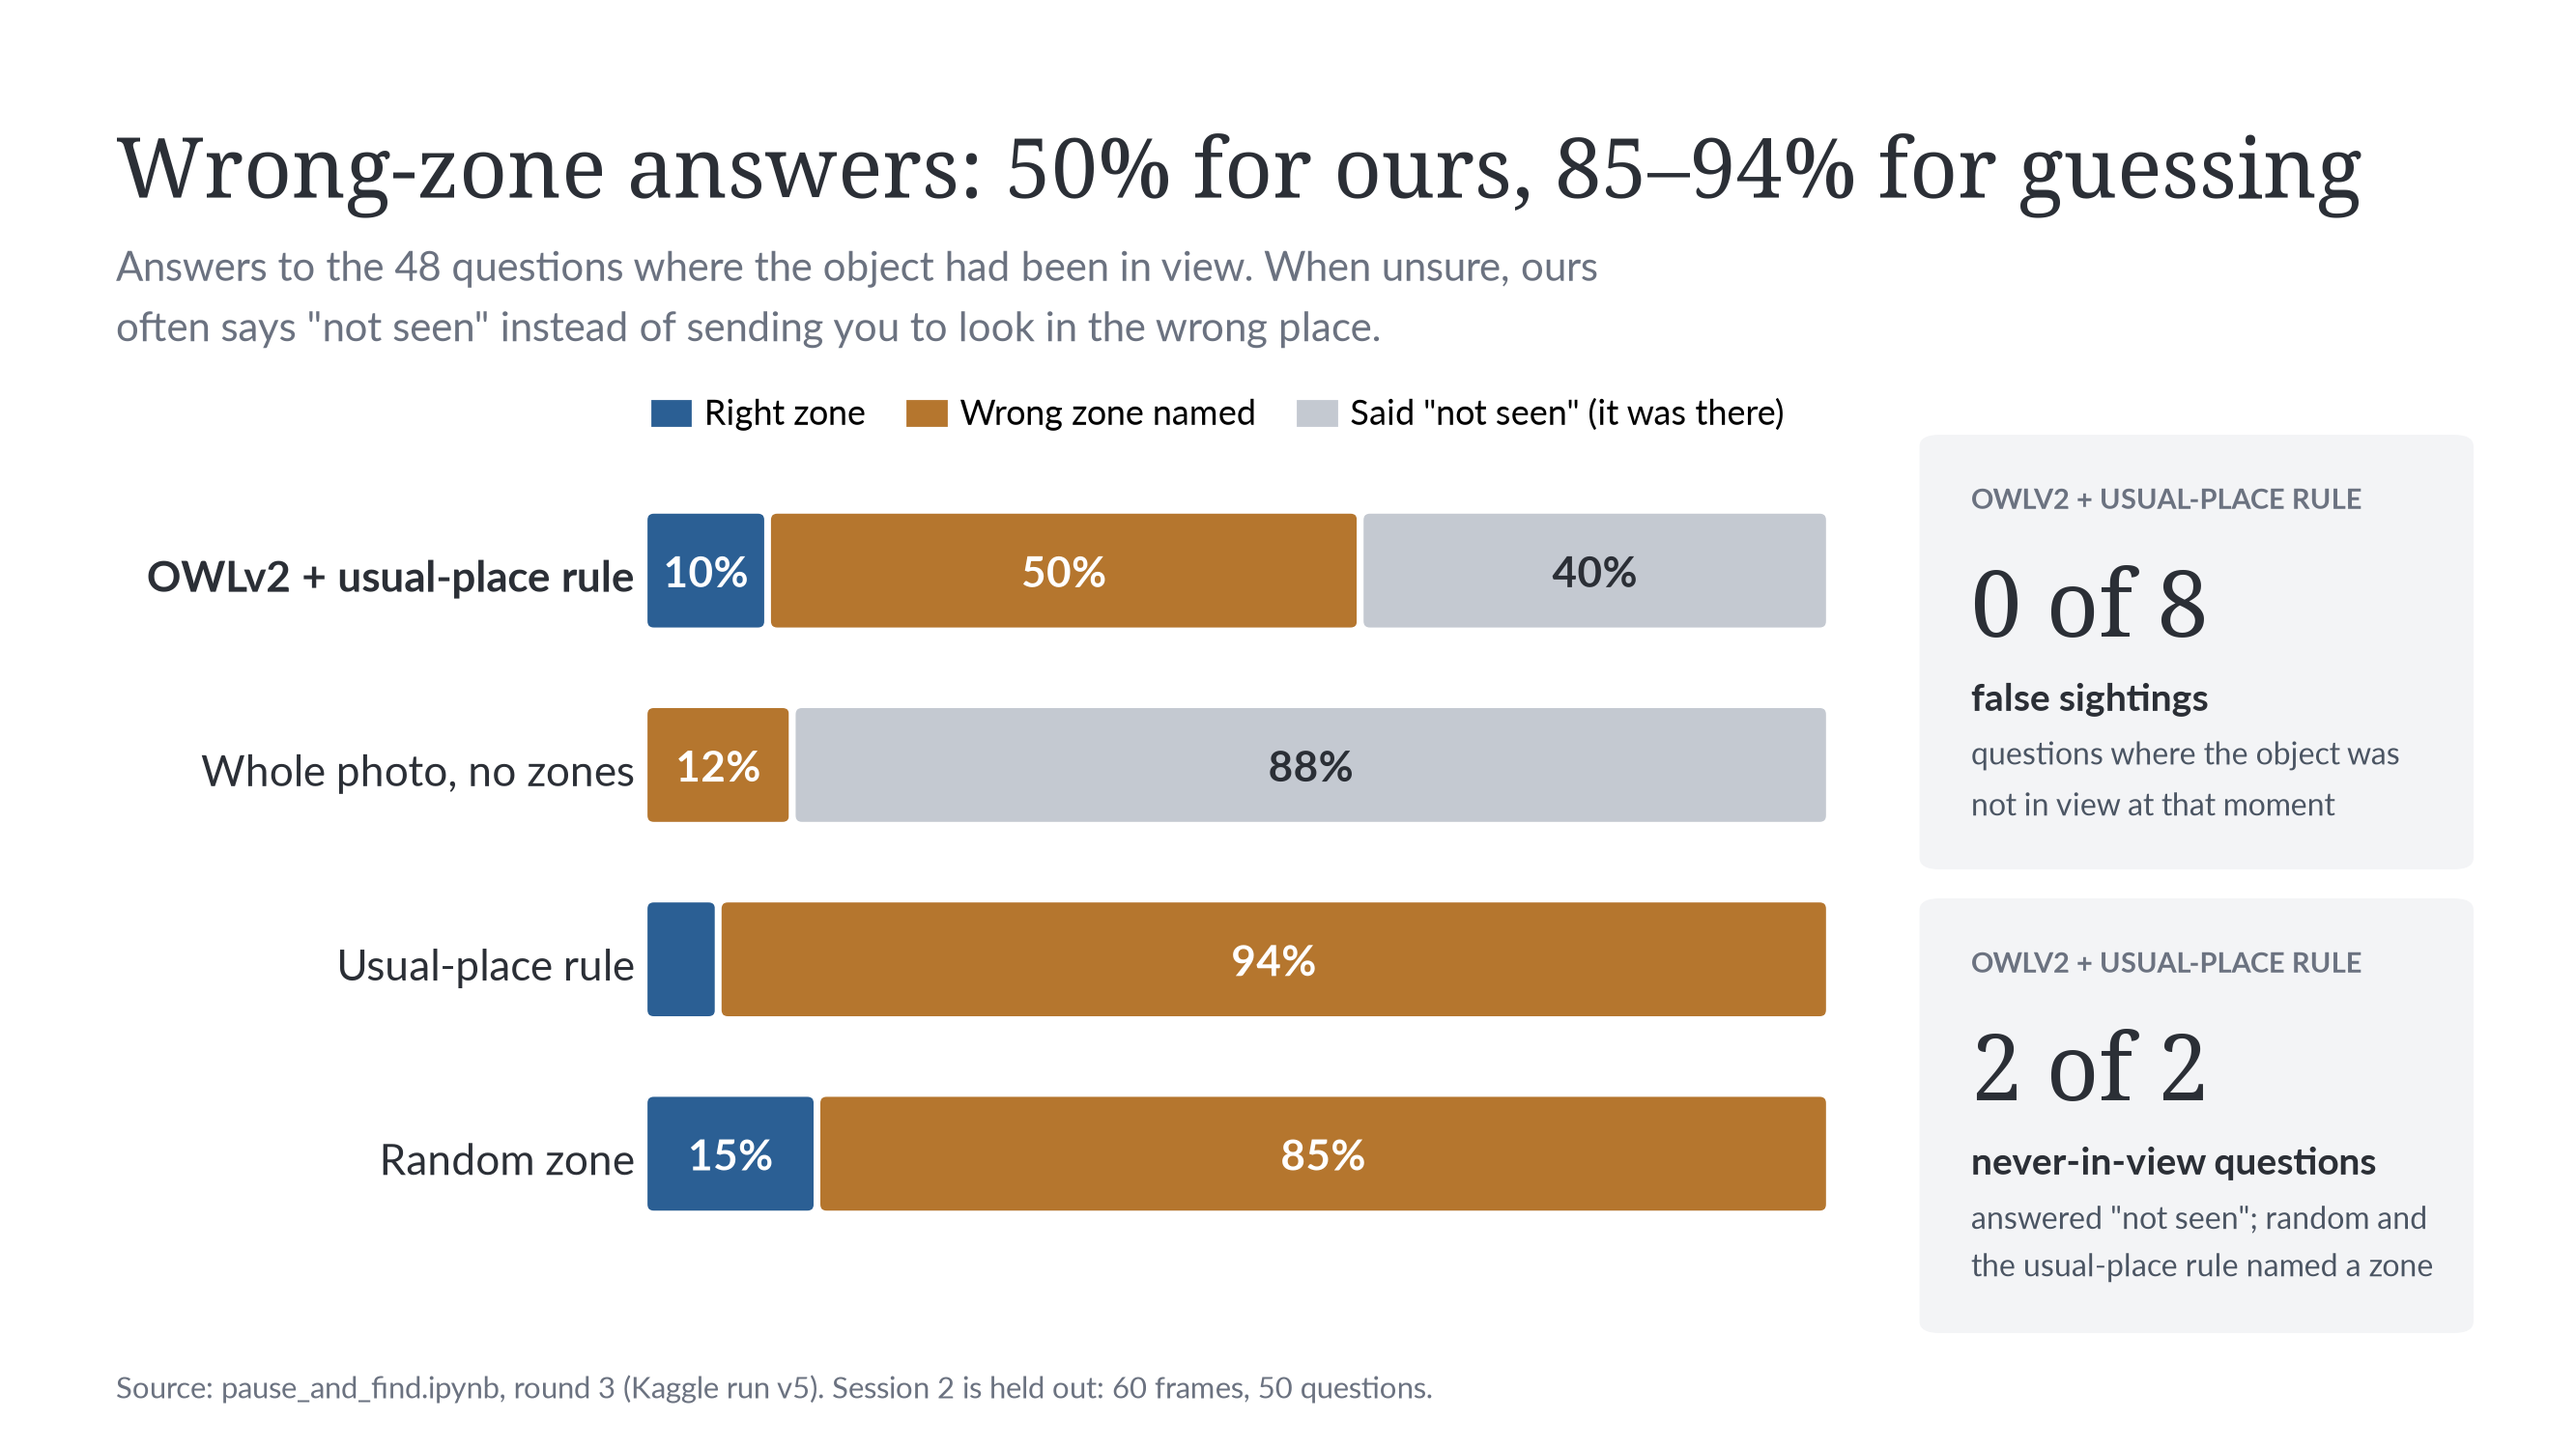
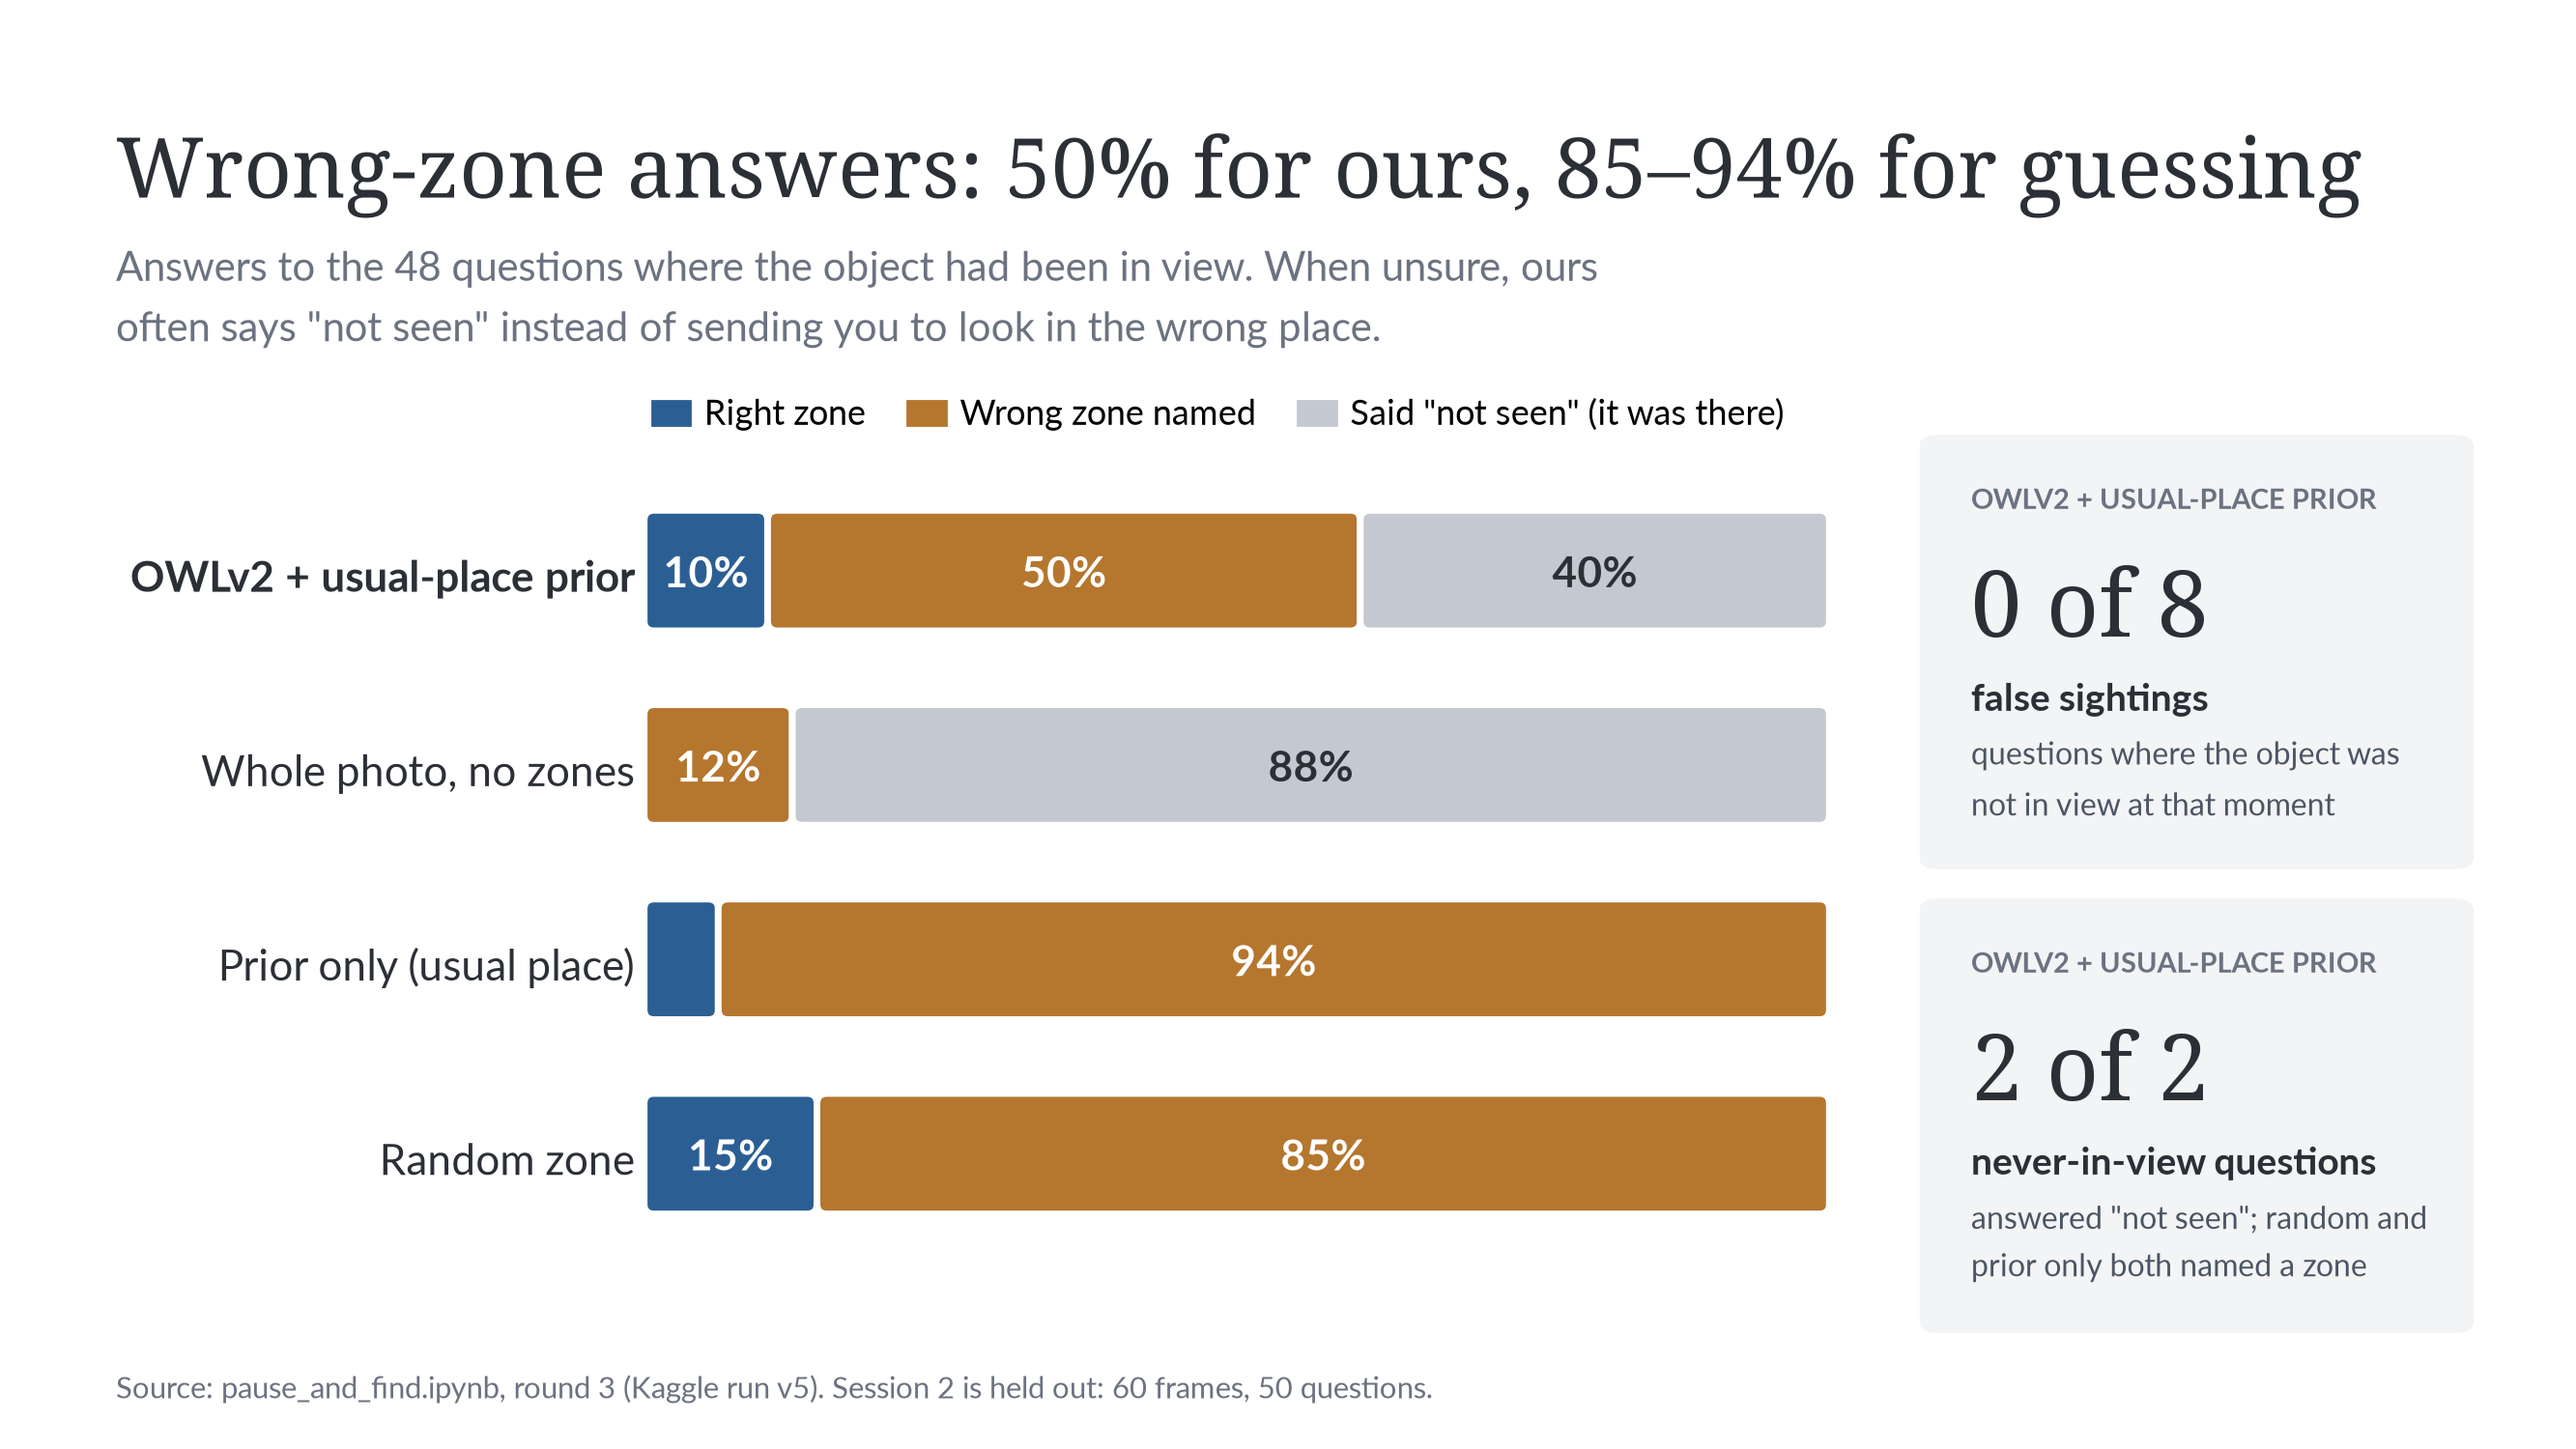
Label the usual-place baseline as prior only in the result plots
Rename the baseline to "Prior only (usual place)", matching the notebook's
"Prior only (usual S1 zone)", and our method to "OWLv2 + usual-place prior".

diff --git a/plots/make_plots.py b/plots/make_plots.py
@@ -19,7 +19,8 @@ for f in (OUT / 'fonts').glob('*.ttf'):
     font_manager.fontManager.addfont(str(f))
 
 # ---------------------------------------------------------------- data (round 3, Kaggle Version 5)
-OURS = 'OWLv2 + usual-place rule'
+OURS = 'OWLv2 + usual-place prior'
+PRIOR = 'Prior only (usual place)'
 DATA = {
     # C4 (S1 at frozen tau) and D5 / D7 zone table (S2: 24 of 238 present pairs ranked first, 9 named at tau)
     'gap': [  # metric, Session 1 %, Session 2 %
@@ -28,18 +29,18 @@ DATA = {
         ('False sightings\n(object absent, system said "here")', 0, 0),
     ],
     # D4: right zone named, questions where the object had been seen (n = 48)
-    'methods': [(OURS, 5), ('Whole photo, no zones', 0), ('Usual-place rule', 3), ('Random zone', 7)],
+    'methods': [(OURS, 5), ('Whole photo, no zones', 0), (PRIOR, 3), ('Random zone', 7)],
     'n_seen': 48,
     # D7 figure 1: right / wrong zone named / said "not seen" (it was there)
-    'breakdown': [(OURS, 5, 24, 19), ('Whole photo, no zones', 0, 6, 42), ('Usual-place rule', 3, 45, 0),
+    'breakdown': [(OURS, 5, 24, 19), ('Whole photo, no zones', 0, 6, 42), (PRIOR, 3, 45, 0),
                   ('Random zone', 7, 41, 0)],
     'false_sightings': (0, 8), 'never_in_view': (2, 2),
     # D7 zone table: present frame pairs, ranked first ignoring tau, named at tau (zones 5, 6, 8 had none)
     'zones': [('Counter', 127, 15, 0), ('Armchair', 41, 0, 0), ('Floor by armchair', 32, 0, 0),
               ('Corner shelf', 19, 9, 9), ('Centre floor', 19, 0, 0)],
     # D7 hypotheses: (method, right, questions)
-    'H1': [(OURS, 3, 3), ('Whole photo, no zones', 0, 3), ('Usual-place rule', 3, 3), ('Random zone', 0, 3)],
-    'H2': [(OURS, 2, 45), ('Whole photo, no zones', 0, 45), ('Usual-place rule', 0, 45), ('Random zone', 7, 45)],
+    'H1': [(OURS, 3, 3), ('Whole photo, no zones', 0, 3), (PRIOR, 3, 3), ('Random zone', 0, 3)],
+    'H2': [(OURS, 2, 45), ('Whole photo, no zones', 0, 45), (PRIOR, 0, 45), ('Random zone', 7, 45)],
 }
 SOURCE = 'Source: pause_and_find.ipynb, round 3 (Kaggle run v5). Session 2 is held out: 60 frames, 50 questions.'
 
@@ -213,7 +214,7 @@ def plot_breakdown():
               handlelength=1.1, handletextpad=0.4, columnspacing=1.2)
     # stat tiles: the safety side of ours
     tiles = [(f'{DATA["false_sightings"][0]} of {DATA["false_sightings"][1]}', 'false sightings', 'questions where the object was\nnot in view at that moment'),
-             (f'{DATA["never_in_view"][0]} of {DATA["never_in_view"][1]}', 'never-in-view questions', 'answered "not seen"; random and\nthe usual-place rule named a zone')]
+             (f'{DATA["never_in_view"][0]} of {DATA["never_in_view"][1]}', 'never-in-view questions', 'answered "not seen"; random and\nprior only both named a zone')]
     for j, (big, head, sub) in enumerate(tiles):
         y0 = 0.40 - j * 0.32
         fig.patches.append(FancyBboxPatch((0.745, y0), 0.215, 0.30, boxstyle='round,pad=0,rounding_size=0.008',
